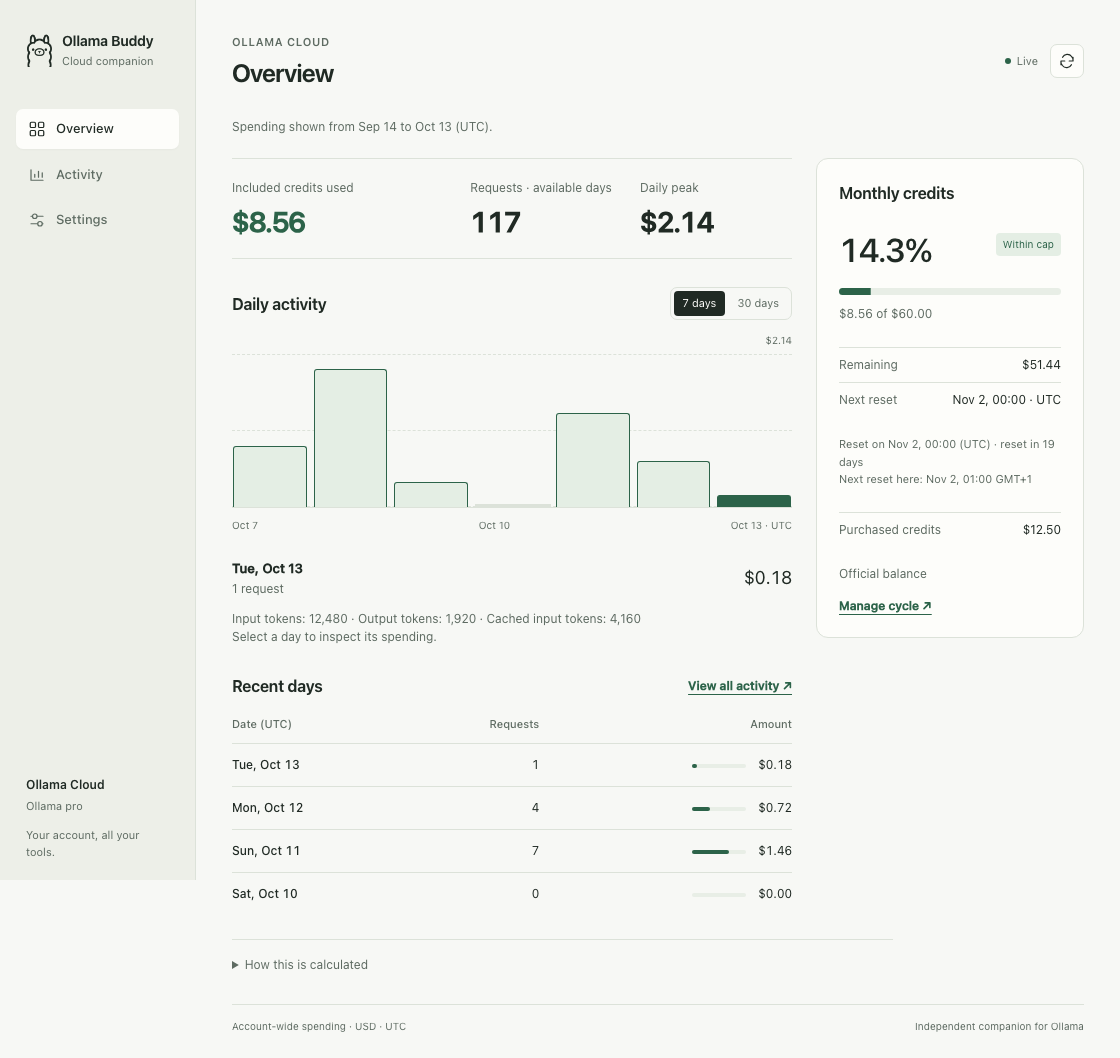
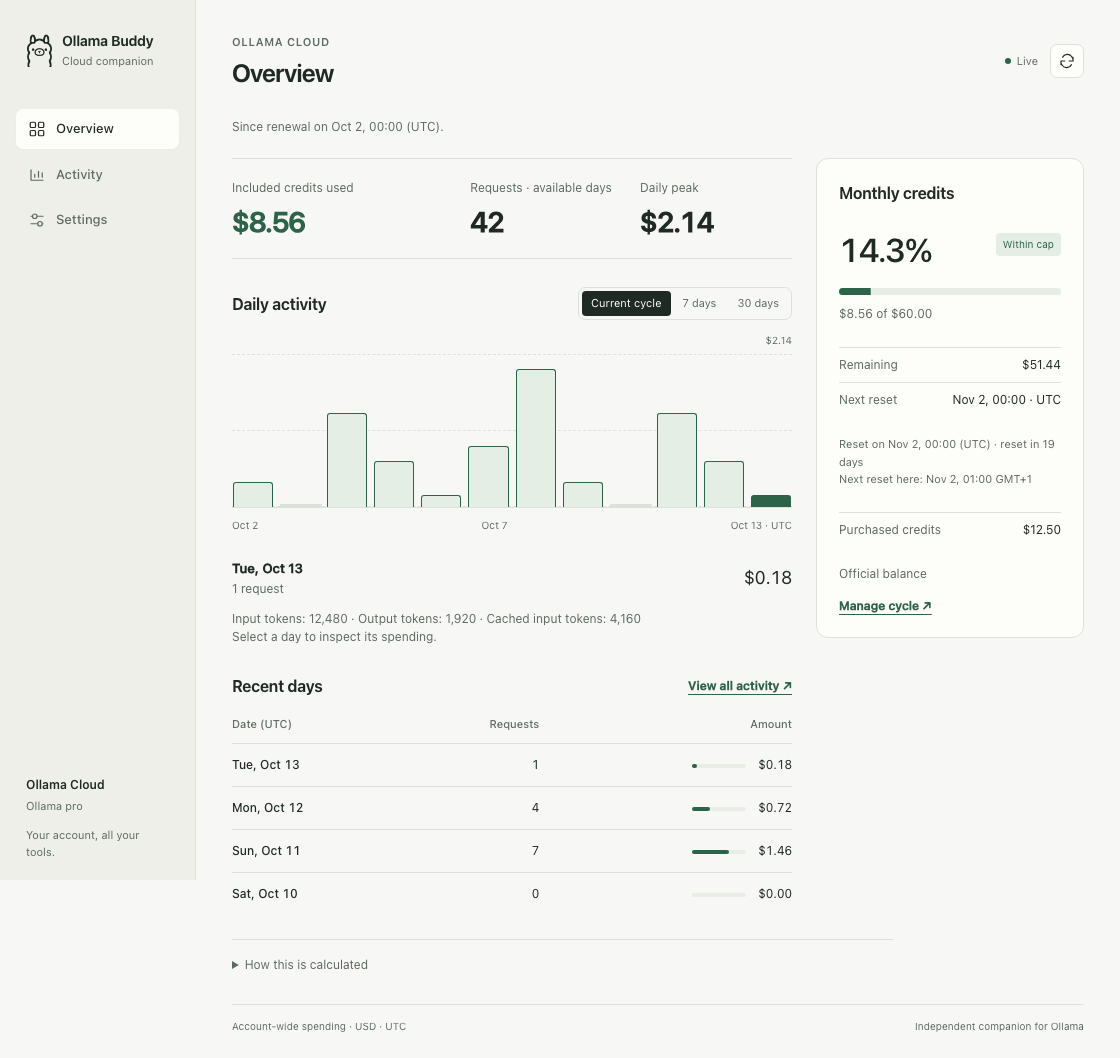
fix(usage): afficher l’activité depuis le dernier renouvellement
Limiter les relevés, graphiques et tokens au cycle officiel, avec un choix Cycle en cours par défaut et une indication pour la journée partielle. Conserver les données antérieures en base.

Vérifier les cycles de 31 jours et actualiser les README et captures bilingues.

diff --git a/web/index.html b/web/index.html
@@ -90,7 +90,7 @@
   .metric .k { font-size:12px; color:var(--muted); display:block; margin-bottom:8px; }
   .metric .v { font-size:28px; font-weight:550; letter-spacing:-.035em; font-variant-numeric:tabular-nums; line-height:1.2; white-space:nowrap; }
   .metric:first-child .v { color:var(--accent); }
-  .section-head { display:flex; align-items:center; justify-content:space-between; gap:12px; margin:28px 0 18px; }
+  .section-head { display:flex; flex-wrap:wrap; align-items:center; justify-content:space-between; gap:12px; margin:28px 0 18px; }
   .segmented { display:flex; gap:3px; padding:3px; border:1px solid var(--line); border-radius:7px; }
   .segmented button { padding:4px 9px; font-size:11px; border:0; background:transparent; color:var(--muted); border-radius:4px; white-space:nowrap; }
   .segmented button[aria-pressed="true"] { background:var(--text); color:var(--surface); }
@@ -220,6 +220,11 @@
    d'afficher un trou. Un texte neuf non traduit reste lisible.
    ===================================================================== */
 const FR = {
+  'Current cycle': 'Cycle en cours',
+  'Since renewal on {date} (UTC).': 'Depuis le renouvellement du {date} (UTC).',
+  'Since the configured cycle start on {date} (UTC).': 'Depuis le début du cycle configuré le {date} (UTC).',
+  'The record for {date} covers the whole UTC day and may include usage before renewal.': 'Le relevé du {date} couvre toute la journée UTC et peut inclure de l’usage avant le renouvellement.',
+  'The monthly credit balance uses the exact renewal time.': 'Le solde mensuel utilise l’heure exacte du renouvellement.',
   'Monthly credits': 'Crédits mensuels',
   'Official balance': 'Solde officiel',
   'Purchased credits': 'Crédits supplémentaires',
@@ -552,7 +557,7 @@ function showSaved() {
 }
 let disconnectPending = false;
 let currentView = 'overview';
-let chartRange = 7;
+let chartRange = 'cycle';
 let selectedDay = null;
 const VIEW_TITLES = { overview: 'Overview', activity: 'Activity', settings: 'Settings' };
 const dayLabel = iso => new Date(iso + 'T00:00:00Z')
@@ -652,13 +657,14 @@ function renderQuota(q = {}) {
     <button class="text-button" type="button" data-view="settings">${T('Manage cycle')} ↗</button></section>`;
 }
 
-function renderTokens(days) {
+function renderTokens(days, cycleStart = null) {
   if (!days.length) return '';
   const end = Date.parse(days[days.length-1].day+'T00:00:00Z');
-  const records = days.filter(day=>Date.parse(day.day+'T00:00:00Z') > end-chartRange*86400000);
+  const range = chartRange === 'cycle' && !cycleStart ? 30 : chartRange;
+  const records = days.filter(day=>range === 'cycle' || Date.parse(day.day+'T00:00:00Z') > end-range*86400000);
   const counters = [['input_tokens','Input tokens'],['output_tokens','Output tokens'],['cached_input_tokens','Cached input tokens']];
   const missing = counters.some(([key])=>records.some(day=>day[key] == null));
-  return `<section class="tokens" aria-labelledby="tokens-h"><div class="section-head"><h2 id="tokens-h">${T('Tokens · available records')}</h2><span class="caption">${T(chartRange+' days')} · UTC</span></div><div class="metrics">${counters.map(([key,label])=>{
+  return `<section class="tokens" aria-labelledby="tokens-h"><div class="section-head"><h2 id="tokens-h">${T('Tokens · available records')}</h2><span class="caption">${T(range === 'cycle' ? 'Current cycle' : range+' days')} · UTC</span></div><div class="metrics">${counters.map(([key,label])=>{
     const known = records.every(day=>day[key] != null);
     const total = known ? records.reduce((sum,day)=>sum+day[key],0) : null;
     return `<div class="metric"><span class="k">${T(label)}</span><span class="v" data-token="${key}"${known ? ` title="${exact(total)}"` : ''}>${known ? fmt(total) : '…'}</span></div>`;
@@ -670,9 +676,11 @@ function renderLedger(days, peak) {
   return `<table class="ledger"><caption class="visually-hidden">${T('Daily consumption')}</caption><thead><tr><th scope="col">${T('Date (UTC)')}</th><th scope="col">${T('Requests')}</th><th scope="col">${T('Amount')}</th></tr></thead><tbody>${[...days].reverse().map(j => `<tr class="model day" data-day="${escapeHTML(j.day)}"><td>${dayLabel(j.day)}</td><td>${exact(j.requests)}</td><td><span class="row-bar" aria-hidden="true"><i style="width:${peak ? Math.min(j.usd/peak,1)*100 : 0}%"></i></span>${usd(j.usd)}</td></tr>`).join('')}</tbody></table>`;
 }
 
-function renderChart(days) {
+function renderChart(days, cycleStart = null) {
   const end = days.length ? Date.parse(days[days.length-1].day+'T00:00:00Z') : 0;
-  const start = days.length ? Math.max(Date.parse(days[0].day+'T00:00:00Z'),end-(chartRange-1)*86400000) : 0;
+  const range = chartRange === 'cycle' && !cycleStart ? 30 : chartRange;
+  const beginning = cycleStart ? Date.parse(new Date(cycleStart).toISOString().slice(0,10)+'T00:00:00Z') : days.length ? Date.parse(days[0].day+'T00:00:00Z') : 0;
+  const start = days.length ? range === 'cycle' ? beginning : Math.max(beginning,end-(range-1)*86400000) : 0;
   const byDay = new Map(days.map(day=>[day.day,day]));
   const shown = [];
   if (days.length) for (let ts=start; ts<=end; ts+=86400000) {
@@ -682,7 +690,7 @@ function renderChart(days) {
   const peak = Math.max(0,...shown.map(d=>d.usd));
   const selected = shown.find(d=>d.day === selectedDay) || shown[shown.length-1];
   selectedDay = selected?.day || null;
-  return `<div class="section-head"><h2>${T('Daily activity')}</h2><div class="segmented" role="group" aria-label="${T('Daily activity')}">${[7,30].map(n=>`<button type="button" data-chart-range="${n}"${shown.length ? '' : ' disabled'} aria-pressed="${chartRange===n}">${T(n+' days')}</button>`).join('')}</div></div>
+  return `<div class="section-head"><h2>${T('Daily activity')}</h2><div class="segmented" role="group" aria-label="${T('Daily activity')}">${(cycleStart ? ['cycle',7,30] : [7,30]).map(n=>`<button type="button" data-chart-range="${n}"${shown.length ? '' : ' disabled'} aria-pressed="${range===n}">${T(n === 'cycle' ? 'Current cycle' : n+' days')}</button>`).join('')}</div></div>
     ${!shown.length ? `<div class="empty-chart">${T('No daily records yet.')}<br>${T('Once Ollama publishes usage, it will appear here.')}</div>` : `
     <div class="chart"><span class="chart-scale">${usd(peak)}</span><div class="chart-grid" aria-hidden="true"><span></span><span></span><span></span></div><div class="chart-bars">${shown.map(j=>`<button class="chart-day${j.usd===null ? ' missing' : j.usd===0 ? ' zero' : ''}" type="button" data-select-day="${escapeHTML(j.day)}" aria-pressed="${selectedDay===j.day}" aria-label="${escapeHTML(dayLabel(j.day)+': '+(j.usd === null ? T('No record for this day') : usd(j.usd)+', '+exact(j.requests)+' '+T('requests')))}" title="${escapeHTML(dayLabel(j.day)+': '+(j.usd === null ? T('No record for this day') : usd(j.usd)))}"><span style="--height:${peak ? (j.usd/peak*90).toFixed(2) : 0}%"></span></button>`).join('')}</div></div>
     <div class="chart-axis"><span>${shortDate(shown[0].day)}</span><span>${shortDate(shown[Math.floor((shown.length-1)/2)].day)}</span><span>${shortDate(shown[shown.length-1].day)} · UTC</span></div>`}
@@ -699,7 +707,8 @@ function renderContent(data) {
     else el.removeAttribute('aria-current');
   });
   sub.hidden = currentView === 'settings' || !data.usage_available;
-  if (days.length) sub.textContent = fill(T('Spending shown from {from} to {to} (UTC).'),{from:shortDate(days[0].day),to:shortDate(days[days.length-1].day)});
+  if (data.activity_start) sub.textContent = fill(T(data.activity_start_source === 'balance' ? 'Since renewal on {date} (UTC).' : 'Since the configured cycle start on {date} (UTC).'),{date:new Date(data.activity_start).toLocaleString(locale(),{day:'numeric',month:'short',hour:'2-digit',minute:'2-digit',hourCycle:'h23',timeZone:'UTC'})});
+  else if (days.length) sub.textContent = fill(T('Spending shown from {from} to {to} (UTC).'),{from:shortDate(days[0].day),to:shortDate(days[days.length-1].day)});
   else sub.textContent = T('Ollama Cloud usage');
   if (currentView === 'settings') { app.innerHTML = renderSettings(data); return; }
   if (!data.usage_available) {
@@ -717,9 +726,11 @@ function renderContent(data) {
   const peak = Math.max(0,...days.map(day=>day.usd));
   const metrics = `<div class="metrics"><div class="metric"><span class="k">${official && currentView === 'overview' ? T('Included credits used') : resetDay ? T('Today (UTC)') : cycle && !official ? T('Usage this cycle') : T('Available spending')}</span><span class="v" id="hero">${spending == null ? '…' : usd(spending)}</span></div><div class="metric"><span class="k">${T(official ? 'Requests · available days' : 'Requests')}</span><span class="v">${requests == null ? '…' : fmt(requests)}</span></div><div class="metric"><span class="k">${T('Daily peak')}</span><span class="v">${usd(peak)}</span></div></div>`;
   const source = `<details class="source-note"><summary>${T('How this is calculated')}</summary><p>${T(official ? 'Monthly credits come from Ollama’s official balance. Purchased credits are separate. Charts show daily spending, which can include both types of credits.' : 'Cycle spending is estimated from complete UTC days. The first partial day is excluded. This is not a balance published by Ollama.')}</p></details>`;
+  const boundary = data.activity_partial_day && days.some(day=>day.day === data.activity_partial_day)
+    ? `<p class="caption" id="renewal-note" style="margin-bottom:18px">${fill(T('The record for {date} covers the whole UTC day and may include usage before renewal.'),{date:shortDate(data.activity_partial_day)})}${official ? ' '+T('The monthly credit balance uses the exact renewal time.') : ''}</p>` : '';
   app.innerHTML = `${data.error ? `<p class="warn-line" role="alert">${fill(T('Read error: {error}'),{error:escapeHTML(data.error)})}</p>` : ''}
-    ${currentView === 'activity' ? `${metrics}${renderChart(days)}${renderTokens(days)}${days.length ? `<div class="section-head"><h2>${T('All available days')}</h2><span class="caption">${days.length} ${T('days')}</span></div>${renderLedger(days,peak)}` : ''}${source}` : `
-    <div class="overview-grid"><section class="activity-panel" aria-label="${T('Overview')}">${metrics}${renderChart(days)}${days.length ? `<section class="recent-section"><div class="section-head"><h2>${T('Recent days')}</h2><button class="text-button" type="button" data-view="activity">${T('View all activity')} ↗</button></div>${renderLedger(days.slice(-4),peak)}</section>` : ''}</section><aside>${renderQuota(data.quota)}</aside></div>${source}`}`;
+    ${boundary}${currentView === 'activity' ? `${metrics}${renderChart(days,data.activity_start)}${renderTokens(days,data.activity_start)}${days.length ? `<div class="section-head"><h2>${T('All available days')}</h2><span class="caption">${days.length} ${T('days')}</span></div>${renderLedger(days,peak)}` : ''}${source}` : `
+    <div class="overview-grid"><section class="activity-panel" aria-label="${T('Overview')}">${metrics}${renderChart(days,data.activity_start)}${days.length ? `<section class="recent-section"><div class="section-head"><h2>${T('Recent days')}</h2><button class="text-button" type="button" data-view="activity">${T('View all activity')} ↗</button></div>${renderLedger(days.slice(-4),peak)}</section>` : ''}</section><aside>${renderQuota(data.quota)}</aside></div>${source}`}`;
 }
 
 // A push must preserve unfinished settings, even after focus left a field.
@@ -764,7 +775,7 @@ document.addEventListener('click',e=>{
     document.getElementById('main').focus({preventScroll:true});
   }
   if (button.dataset.chartRange) {
-    chartRange = Number(button.dataset.chartRange);
+    chartRange = button.dataset.chartRange === 'cycle' ? 'cycle' : Number(button.dataset.chartRange);
     if (lastData) render(lastData);
     document.querySelector(`[data-chart-range="${chartRange}"]`)?.focus({preventScroll:true});
   }
@@ -877,6 +888,7 @@ function applyData(data) {
   const signature = JSON.stringify({
     usd: data.usd, requests: data.requests, peak: data.peak,
     days: data.days, daily_days: data.daily_days, usage_available: data.usage_available, usage_error:data.usage_error, period: data.period,
+    activity_start: data.activity_start, activity_start_source:data.activity_start_source, activity_partial_day:data.activity_partial_day,
     notifications: data.notifications, notifications_supported: data.notifications_supported,
     quota: { ...data.quota, days_left: Math.floor(data.quota?.days_left ?? -1) },
     theme: data.theme, lang: data.lang, account: data.account, error: data.error,

diff --git a/app/main.swift b/app/main.swift
@@ -628,6 +628,7 @@ final class AppDelegate: NSObject, NSApplicationDelegate, WKNavigationDelegate,
                     && json?["native"] as? Bool == true
                     && json?["daily_usage"] as? Bool == true
                     && json?["balance_tokens"] as? Bool == true
+                    && json?["cycle_activity"] as? Bool == true
             } else {
                 ok = false
             }

diff --git a/tests/test_backend.py b/tests/test_backend.py
@@ -156,6 +156,34 @@ class StateFixture(unittest.TestCase):
 
 
 class StateTests(StateFixture):
+    def test_activity_starts_at_official_renewal_including_partial_day(self):
+        with patch.object(buddy,'datetime',wraps=datetime) as clock:
+            clock.now.return_value = utc(2026,10,13,10)
+            self.state.cfg.update(ollama_api_key='test-key',quota_reset_at=epoch(utc(2026,9,1)))
+            buddy.cloud_balance.return_value = {'included':{'allowance_usd':60,'balance_usd':59.7,
+                'period':{'from':'2026-10-12T12:00:00Z','until':'2026-11-12T12:00:00Z'}},
+                'purchased':{'balance_usd':0}}
+            data = usage([('2026-10-11',99),('2026-10-12',.4),('2026-10-13',.2)])
+            for day in data['buckets']: day['cached_input_tokens'] = 1
+            with patch.object(buddy,'cloud_usage',return_value=data):
+                payload = self.state.payload()
+            self.assertEqual([day['day'] for day in payload['daily_days']],['2026-10-12','2026-10-13'])
+            self.assertEqual(payload['activity_start'],epoch(utc(2026,10,12,12)))
+            self.assertEqual(payload['activity_start_source'],'balance')
+            self.assertEqual(payload['activity_partial_day'],'2026-10-12')
+            self.assertAlmostEqual(payload['quota']['current'],.3)
+            self.assertEqual(self.state.conn.execute('SELECT count(*) FROM daily_usage').fetchone()[0],3)
+            # A real renewal changes the visible window without clearing saved history.
+            clock.now.return_value = utc(2026,11,12,15)
+            self.state.invalidate_cloud()
+            buddy.cloud_balance.return_value = {'included':{'allowance_usd':60,'balance_usd':60,
+                'period':{'from':'2026-11-12T00:00:00Z','until':'2026-12-12T00:00:00Z'}},
+                'purchased':{'balance_usd':0}}
+            with patch.object(buddy,'cloud_usage',return_value=usage([('2026-11-11',5),('2026-11-12',0)])):
+                payload = self.state.payload()
+            self.assertEqual([day['day'] for day in payload['daily_days']],['2026-11-12'])
+            self.assertIsNone(payload['activity_partial_day'])
+
     def test_rate_limit_backoff_survives_refresh_but_not_account_change(self):
         self.state.cfg['ollama_api_key'] = 'test-key'
         buddy.cloud_balance.return_value = {'error':'HTTP 429','retry_after':120}
@@ -502,6 +530,9 @@ class HTTPTests(StateFixture):
         self.assertEqual(self.state.cfg["monthly_quota"], 0)
 
     def test_local_json_and_native_refresh_work(self):
+        status, _, body = self.request('GET','/health')
+        self.assertEqual(status,200)
+        self.assertTrue(json.loads(body)['cycle_activity'])
         status, _, _ = self.post({"monthly_quota": 60}, {"Origin": f"http://127.0.0.1:{self.port}"})
         self.assertEqual(status, 200)
         self.assertEqual(self.state.cfg["monthly_quota"], 60)

diff --git a/ollama_buddy.py b/ollama_buddy.py
@@ -837,6 +837,9 @@ def empty_usage() -> dict:
         "unit": "jours",
         "days": [],
         "daily_days": [],
+        "activity_start": None,
+        "activity_start_source": None,
+        "activity_partial_day": None,
         "days_total": 0,
         "usd": 0.0,
         "requests": 0,
@@ -854,15 +857,18 @@ def build_cloud_usage(conn: sqlite3.Connection, cfg: dict, cloud: dict,
                       balance: dict | None = None) -> dict:
     """La depense reste lisible sans plafond ou cycle complet."""
     days = cloud_days(cloud) or []
-    _, start, _ = reset_window(conn, cfg, datetime.now(timezone.utc), balance)
+    _, start, start_source = reset_window(conn, cfg, datetime.now(timezone.utc), balance)
     first = cycle_first_day(start)
     cycle = cloud_cycle_usage(cloud, start) is not None
-    cutoff = first if cycle else (datetime.now(timezone.utc).date() - timedelta(days=29)).isoformat()
+    cutoff = first or (datetime.now(timezone.utc).date() - timedelta(days=29)).isoformat()
     today = datetime.now(timezone.utc).date().isoformat()
-    daily_cutoff = (datetime.now(timezone.utc).date() - timedelta(days=29)).isoformat()
+    renewal_day = datetime.fromtimestamp(start / 1000, timezone.utc).date().isoformat() if start else None
+    daily_cutoff = renewal_day or (datetime.now(timezone.utc).date() - timedelta(days=29)).isoformat()
     daily_days = [day for day in days if daily_cutoff <= day["day"] <= today]
     days = [day for day in days if cutoff <= day["day"] <= today]
     return {"unit": "jours", "days": days, "daily_days": daily_days, "days_total": len(days),
+            "activity_start": start, "activity_start_source": start_source,
+            "activity_partial_day": renewal_day if renewal_day and renewal_day != first else None,
             "usd": sum(day["usd"] for day in days),
             "requests": sum(day["requests"] for day in days),
             "peak": max((day["usd"] for day in days), default=0),
@@ -1150,7 +1156,7 @@ class Handler(BaseHTTPRequestHandler):
                 return
 
         if url.path == "/health":
-            self._json({"ok": True, "app": "ollama-buddy", "keychain": keychain_available(), "native": native_app(), "daily_usage": True, "balance_tokens": True})
+            self._json({"ok": True, "app": "ollama-buddy", "keychain": keychain_available(), "native": native_app(), "daily_usage": True, "balance_tokens": True, "cycle_activity": True})
             return
 
         if url.path == "/api/stream":

diff --git a/README.fr.md b/README.fr.md
@@ -12,13 +12,13 @@ avec un résumé dans la barre de menus. Le serveur peut aussi fonctionner seul,
 dans un navigateur.
 
 - Vue d’ensemble avec dépense, requêtes, quota et quatre derniers jours.
-- Vue **Activité** avec graphique interactif sur 7 ou 30 jours calendaires et
+- Vue **Activité** avec graphique interactif sur le cycle en cours ou 7/30 jours calendaires et
   tableau de tous les relevés de la période disponible. Les jours manquants
   sont distingués des jours à dépense nulle.
 - Paramètres dédiés : connexion, cycle mensuel, alertes et apparence. Les saisies
   en cours sont conservées pendant les mises à jour en direct.
 - Plafond, crédits mensuels restants, date de réinitialisation et crédits supplémentaires officiels.
-- Tokens d’entrée, de sortie et en cache sur les 7/30 jours sélectionnés dans Activité.
+- Tokens d’entrée, de sortie et en cache sur le cycle ou les 7/30 jours sélectionnés dans Activité.
 - Projections estimatives après une journée complète de mesures du solde.
 - Notifications natives optionnelles à 70 %, 90 % et 100 % du quota mensuel consommé.
 - Français/anglais et thèmes automatique/clair/sombre dans les paramètres.
@@ -40,8 +40,8 @@ Sélectionne une barre du graphique pour consulter le relevé d’un jour.
 
 ### Activité
 
-Passe entre 7 et 30 jours calendaires et consulte tous les relevés de la période
-disponible, avec les compteurs de tokens. Un jour manquant se distingue d’un jour à dépense nulle.
+L’activité démarre au dernier renouvellement. Passe entre le cycle en cours
+et 7/30 jours de ce cycle, avec les compteurs de tokens. Un jour manquant se distingue d’un jour à dépense nulle.
 
 <img src="docs/activity.fr.png" alt="Vue Activité en français : graphique quotidien, compteurs de tokens et relevés disponibles" width="100%">
 
@@ -102,7 +102,7 @@ python3 ollama_buddy.py
 Fermer la fenêtre laisse l’app dans la barre de menus. `⌘Q` arrête le serveur si
 c’est cette app qui l’a démarré ; un serveur natif compatible préexistant reste
 actif. Au lancement, l’app vérifie que le serveur réutilisé prend en charge le
-suivi quotidien, Balance et les tokens. Le serveur CLI est séparé pour que l’app native utilise le Trousseau.
+suivi quotidien depuis le renouvellement, Balance et les tokens. Le serveur CLI est séparé pour que l’app native utilise le Trousseau.
 
 ## Connexion et réglages
 
@@ -151,10 +151,20 @@ artificiel. Pour une équipe, Balance est partagé entre les membres, tandis que
 l’activité utilise le périmètre personnel par défaut (`self`).
 
 [`GET /api/usage?range=30d`](https://docs.ollama.com/api/cloud-usage) alimente les
-relevés quotidiens UTC. Activité montre la dépense disponible des 30 derniers
-jours UTC, qui peut utiliser des crédits supplémentaires : ce n’est pas la même
-mesure que les crédits mensuels consommés. Ollama peut publier l’usage avec un
+relevés quotidiens UTC. Activité démarre à la date du dernier renouvellement fournie par Balance
+(ou à la référence du cycle configuré en secours). Les relevés antérieurs restent
+enregistrés mais sont masqués dans les graphiques, tableaux, compteurs de tokens
+et la barre de menus. Le choix **Cycle en cours** affiche tout le cycle, y compris
+31 jours ; les choix 7/30 jours restent à l’intérieur du cycle. Sans cycle connu,
+les relevés disponibles des 30 derniers jours sont affichés. Cette dépense peut
+utiliser des crédits supplémentaires : elle diffère des crédits mensuels consommés. Ollama peut publier l’usage avec un
 délai. Si la lecture de l’activité échoue, le solde officiel disponible reste visible.
+
+Les relevés quotidiens ne peuvent pas être coupés à l’heure exacte du renouvellement.
+Si celui-ci tombe en cours de journée UTC, le premier relevé est accompagné d’une
+indication : il peut inclure des dépenses, requêtes et tokens antérieurs au
+renouvellement. Le solde mensuel officiel utilise toujours la borne exacte ;
+l’estimation de secours exclut cette journée partielle.
 
 Lorsque Balance est indisponible, l’estimation de secours additionne les jours
 UTC complets du cycle configuré, puis divise par le plafond. Le premier jour
@@ -176,7 +186,7 @@ sont séparées des mesures officielles.
 ### Compteurs de tokens
 
 **Activité** affiche les tokens d’entrée, de sortie et d’entrée en cache des
-7/30 jours sélectionnés, ainsi que ceux du jour sélectionné. Le cache est inclus
+cycle en cours ou des 7/30 jours sélectionnés, ainsi que ceux du jour sélectionné. Le cache est inclus
 dans les tokens d’entrée et n’est jamais ajouté une seconde fois. Les compteurs
 absents sont indisponibles, pas nuls. Les anciens totaux sont conservés sans
 inventer leur répartition ; une nouvelle lecture remplit les compteurs réellement

diff --git a/README.md b/README.md
@@ -11,12 +11,12 @@ Python server serves a dashboard in a native macOS window, with a compact summar
 in the menu bar. Running the server directly also works in a browser.
 
 - Overview with spending, requests, official credits and the four most recent days.
-- **Activity** view with an interactive 7/30 calendar-day chart and every daily
+- **Activity** view with an interactive current-cycle/7/30 calendar-day chart and every daily
   record in the available period. Missing records are distinct from zero spending.
 - Dedicated settings for connection, monthly cycle, alerts and appearance.
   Unfinished input survives live updates.
 - Official monthly allowance, remaining credits, reset date and purchased credits.
-- Input/output/cached token counters for the selected 7/30-day activity range.
+- Input/output/cached token counters for the current cycle or selected 7/30-day activity range.
 - Estimated projections once a full day of balance samples has accumulated.
 - Optional native notifications at 70%, 90% and 100% of the monthly allowance used.
 - English/French and automatic/light/dark themes in Settings, shared between both views.
@@ -37,8 +37,8 @@ Select a chart bar to inspect a day's record.
 
 ### Activity
 
-Switch between 7 and 30 calendar days and inspect every record in the available
-period, including input, output and cached token counters. Missing records are
+Activity starts at the latest renewal. Switch between the full current cycle
+and 7/30 calendar days within it, including input, output and cached token counters. Missing records are
 distinct from days with zero spending.
 
 <img src="docs/activity.png" alt="Activity view with daily chart, token counters and daily records" width="100%">
@@ -100,7 +100,7 @@ python3 ollama_buddy.py
 Closing the native window keeps the menu bar app running. `⌘Q` stops the server
 if this app started it; a compatible pre-existing native server stays running. A plain CLI server is
 kept separate so the native app can use Keychain storage. On launch, the app also
-checks that a reused server supports daily tracking, Balance and token counters.
+checks that a reused server supports daily tracking from renewal, Balance and token counters.
 
 ## Connect and configure
 
@@ -148,10 +148,18 @@ a made-up percentage. For teams, Balance is shared across members whereas the
 activity endpoint uses the default personal scope (`self`).
 
 [`GET /api/usage?range=30d`](https://docs.ollama.com/api/cloud-usage) supplies the
-UTC daily chart and table. Activity shows available daily spending across the last
-30 UTC days, including spending that may draw on purchased credits; it is not the
-same measure as included credits consumed. New usage may take time to appear on
+UTC daily chart and table. Activity starts on the latest renewal date from Balance (or the configured
+cycle reference in fallback mode). Earlier daily records remain stored but are
+hidden from charts, tables, token counters and the menu bar. The default **Current
+cycle** chart can show all 31 days; 7/30-day choices stay within that cycle.
+With no known cycle, available records from the last 30 days are shown. Spending
+can draw on purchased credits and is not the same measure as included credits consumed. New usage may take time to appear on
 Ollama. If the activity request fails, an available official balance remains visible.
+
+Daily buckets cannot be split at an exact renewal time. If renewal occurs during
+a UTC day, that first daily record is shown with a note that it may include
+pre-renewal spending, requests and tokens. The official monthly balance still
+uses the exact cycle boundary; the fallback quota excludes that partial day.
 
 If Balance is unavailable, the fallback quota sums complete UTC days in the
 manually configured cycle and divides by the cap. A partial reset day is excluded;
@@ -170,7 +178,7 @@ Fallback rate samples are kept separate from official balance samples.
 
 ### Token counters
 
-**Activity** shows input, output and cached input tokens for the selected 7/30-day
+**Activity** shows input, output and cached input tokens for the current cycle or selected 7/30-day
 range, plus the selected day's counters. Cached input is a subset of input tokens
 and is never added again. Missing counters are shown as unavailable, not zero.
 Old stored totals cannot reveal the split; migrations preserve them without
